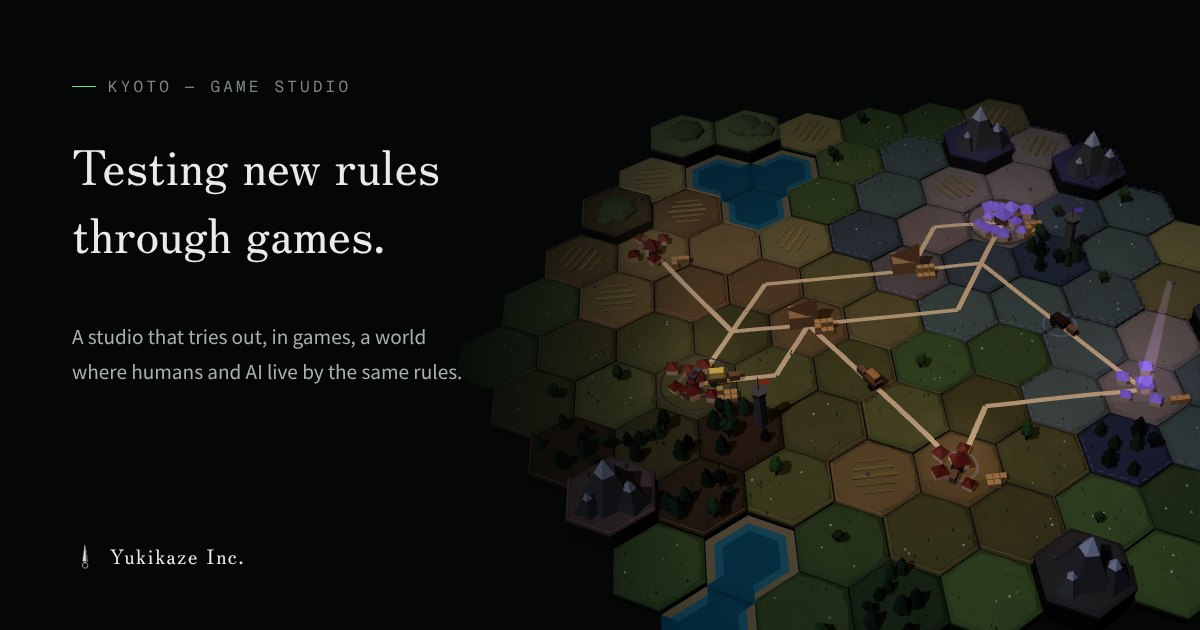
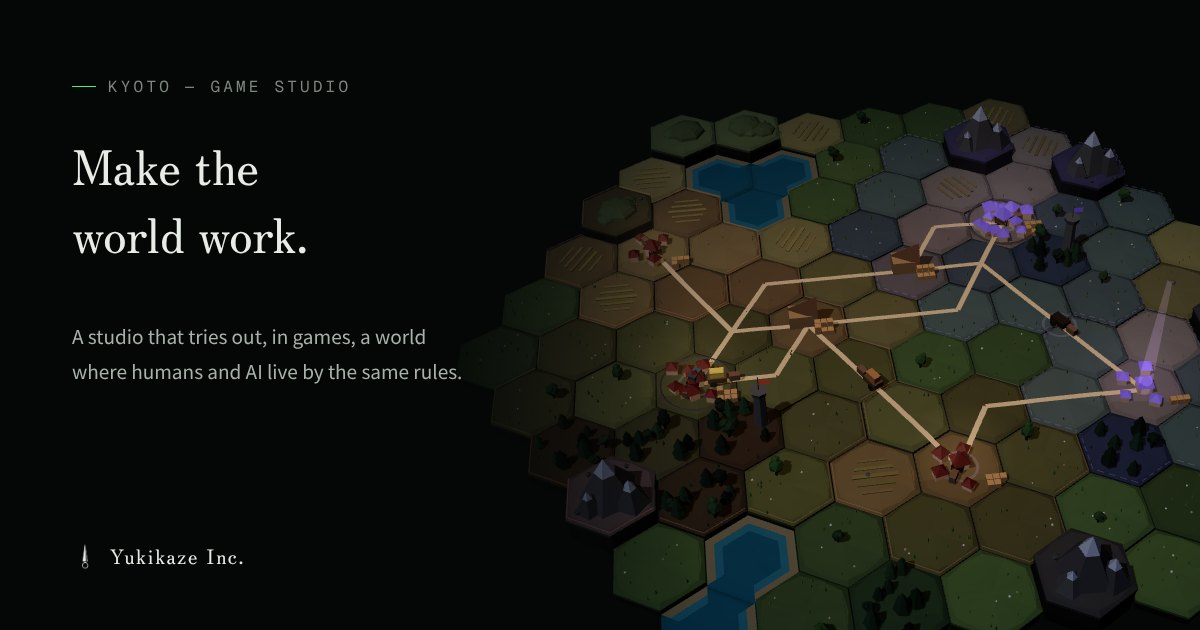
content: ヒーローの見出しを「Make the world work.」にする（OG 画像も）
Claude-Session: https://claude.ai/code/session_01VZrfBdvuALSAiXHCz5r6uF

Changed region(s): [[0.0617, 0.2413, 0.37, 0.3016], [0.0617, 0.3317, 0.3083, 0.4222]]

diff --git a/src/content/site.ts b/src/content/site.ts
@@ -106,7 +106,7 @@ const ja: Content = {
     title: '株式会社雪風 | Yukikaze Inc.',
     description:
       '株式会社雪風は、人間とAIが同じルールで生きる世界を、ゲームで先に試す京都の会社です。現在は戦略ゲーム「Wylls」をSolanaで開発しています。',
-    ogAlt: '株式会社雪風 — ゲームで、新しいルールを試す。',
+    ogAlt: '株式会社雪風 — Make the world work.',
   },
   name: '株式会社雪風',
   nameLatin: 'YUKIKAZE INC.',
@@ -121,7 +121,9 @@ const ja: Content = {
   ],
   hero: {
     kicker: 'KYOTO — GAME STUDIO',
-    title: 'ゲームで、\n新しいルールを試す。',
+    // 見出しは R・バックミンスター・フラーの言葉（「ワールド・ゲーム」の目的の冒頭）。出典は社名の項の引用に。
+    // 見出しには出典を付けない（持ち主の指示、2026-11-04）
+    title: 'Make the world work.',
     lead: '人間とAIが同じルールで生きる世界を、ゲームで先に試す会社です。',
   },
   model: {
@@ -245,7 +247,7 @@ const en: Content = {
     title: 'Yukikaze Inc. | 株式会社雪風',
     description:
       'Yukikaze Inc. is a Kyoto studio that tries out, in games, a world where humans and AI live by the same rules. We are building Wylls, a strategy game on Solana.',
-    ogAlt: 'Yukikaze Inc. — Testing new rules through games.',
+    ogAlt: 'Yukikaze Inc. — Make the world work.',
   },
   name: 'Yukikaze Inc.',
   nameLatin: '株式会社雪風',
@@ -260,7 +262,7 @@ const en: Content = {
   ],
   hero: {
     kicker: 'KYOTO — GAME STUDIO',
-    title: 'Testing new rules\nthrough games.',
+    title: 'Make the world work.',
     lead: 'A studio that tries out, in games, a world where humans and AI live by the same rules.',
   },
   model: {

diff --git a/src/components/HomePage.tsx b/src/components/HomePage.tsx
@@ -31,7 +31,6 @@ const fmtDate = (iso: string, lang: Lang) =>
 
 export default function HomePage({ lang, feed }: { lang: Lang; feed: FeedItem[] }) {
   const c = content[lang];
-  const [line1, line2] = c.hero.title.split('\n');
 
   return (
     <>
@@ -101,11 +100,10 @@ export default function HomePage({ lang, feed }: { lang: Lang; feed: FeedItem[] 
                 <span aria-hidden="true" className="inline-block h-px w-6 bg-signal" />
                 {c.hero.kicker}
               </p>
-              <h1 id="hero-title" className="serif text-[2rem] leading-[1.4] sm:text-[2.5rem] lg:text-[2.625rem]">
-                {line1}
-                <br />
-                {line2}
+              <h1 id="hero-title" className="serif text-[2.5rem] leading-[1.2] tracking-[0.005em] sm:text-[3rem] lg:text-[2.875rem]">
+                {c.hero.title}
               </h1>
+
               <p className="mt-4 max-w-[24em] text-[0.9375rem] leading-[1.9] text-ink-2 lg:text-base">{c.hero.lead}</p>
               <div className="js-only mt-8 border-t border-rule pt-5">
                 <ModelControls c={c.model} />

diff --git a/docs/redesign-2026-11.md b/docs/redesign-2026-11.md
@@ -72,6 +72,8 @@
 - 事業は「AIとブロックチェーンを活用したゲームの開発」だけ、肩書きは「代表」のまま（持ち主の回答）。旧サイトのコンサルティング・リサーチは載せない。
 - 社名の由来は旧サイトの「駆逐艦の中で唯一生還した」から、史実に合う「陽炎型駆逐艦のなかで唯一、終戦まで残った」のまま。
 
+- ヒーローの見出しを「Make the world work.」に（日英共通、持ち主の選択）。フラーの言葉だが、見出しには出典を付けない（持ち主の指示）。出典は社名の項の引用に残る。OG 画像も作り直した。
+
 ## 未確認
 
 - 実機（iPhone Safari・Android Chrome、内蔵 GPU のノート PC）での見え方と滑らかさ。fps はこのセッションでは測れていない。
